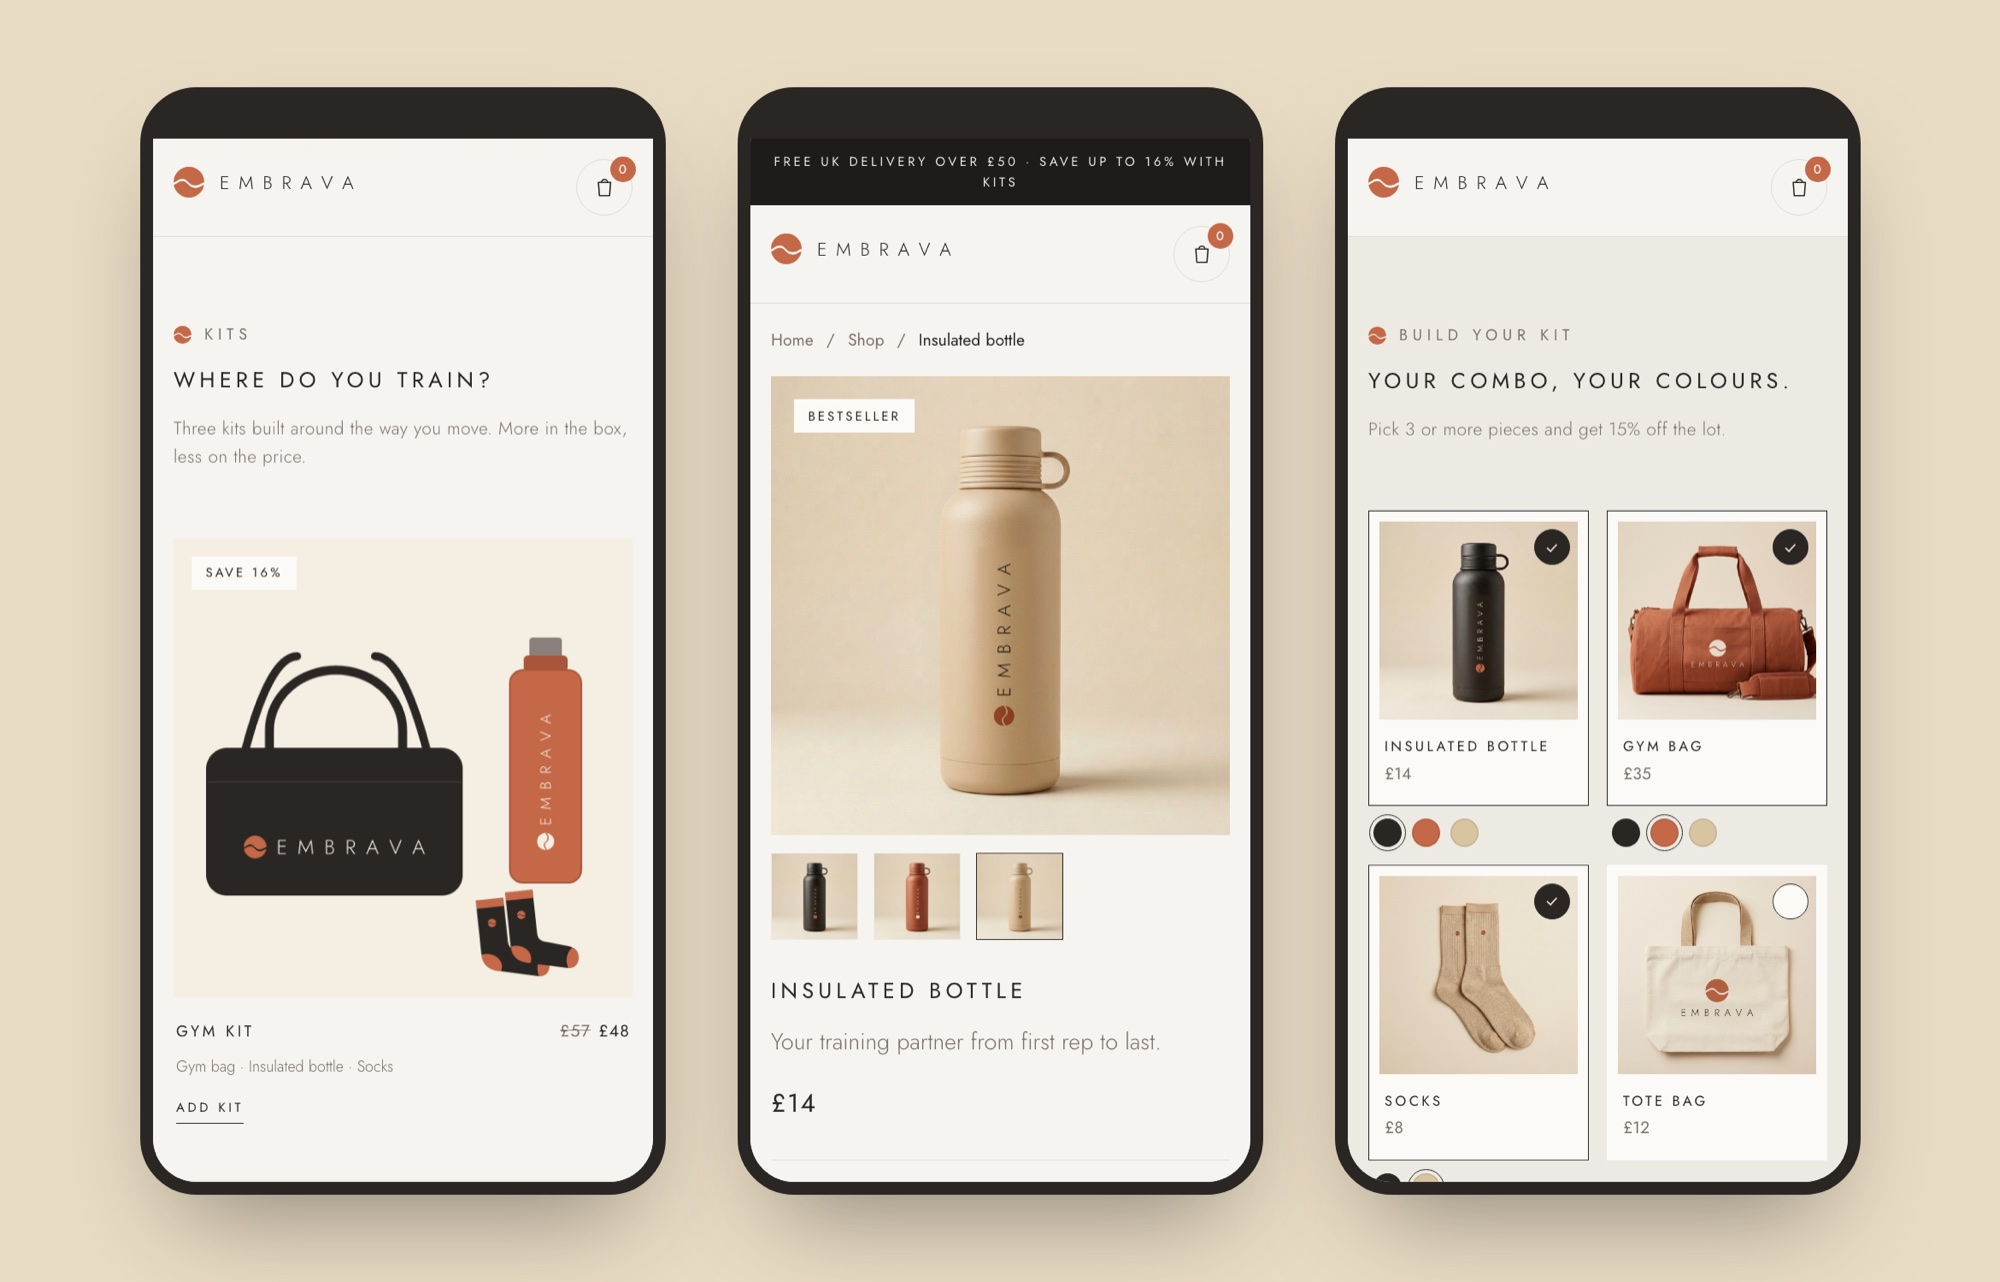
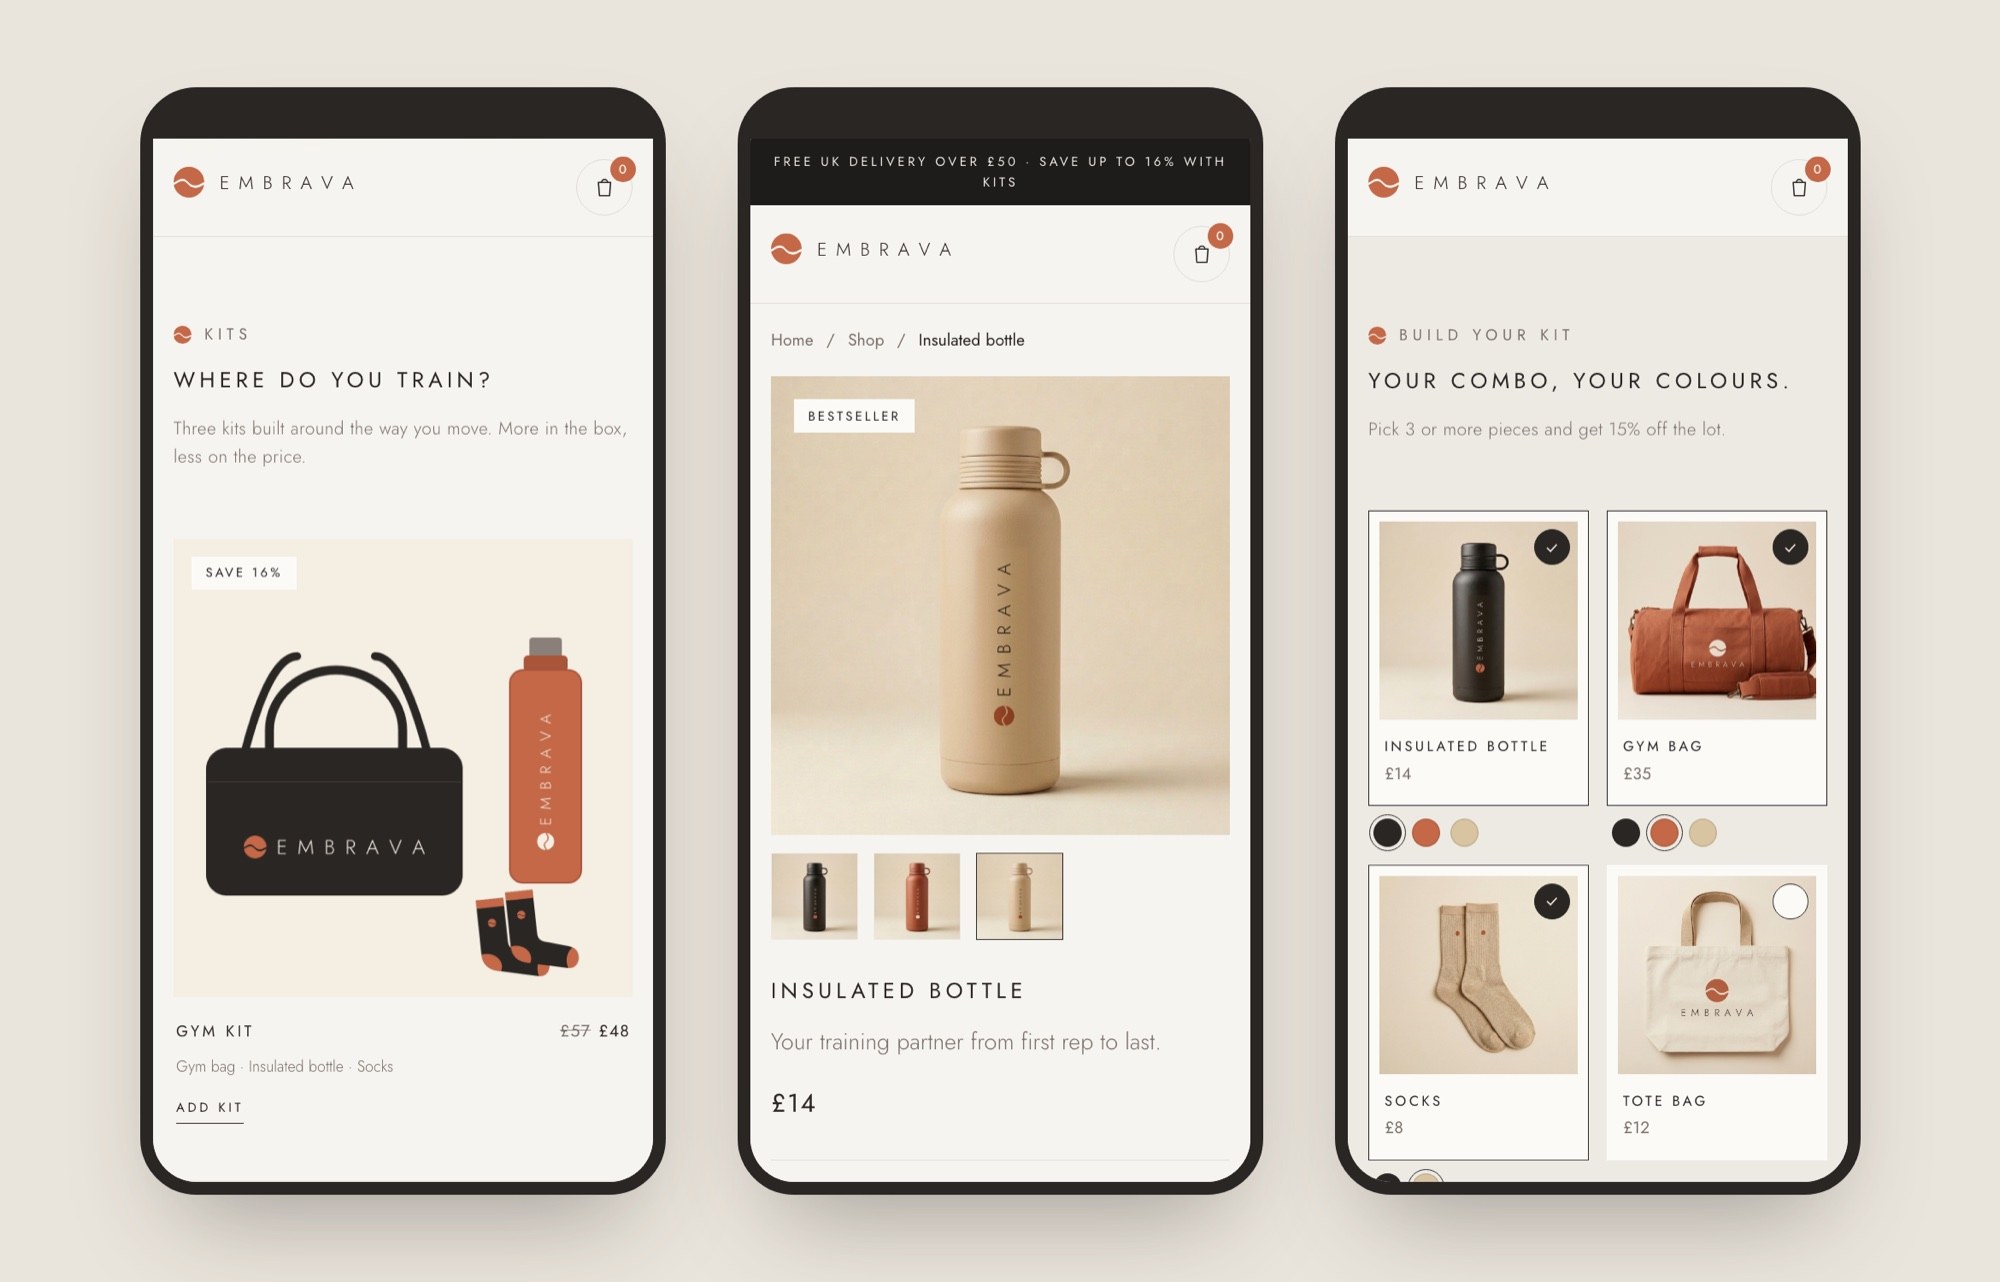
Restyle the case study to match the editorial store: spaced-caps titles, square corners, neutral phone backdrop

Changed region(s): [[0.031, 0.0312, 0.992, 1.0]]

diff --git a/case.css b/case.css
@@ -8,14 +8,14 @@
 
 /* Intro */
 .cs-intro { padding: 88px 0 40px; }
-.cs-intro h1 { font-size: clamp(44px, 7vw, 92px); margin-bottom: 28px; }
-.cs-intro__lead { font-size: clamp(18px, 2vw, 22px); color: var(--muted); max-width: 40em; margin: 0 0 48px; }
+.cs-intro h1 { font-size: clamp(26px, 3.4vw, 44px); font-weight: 400; letter-spacing: .24em; text-transform: uppercase; line-height: 1.3; margin-bottom: 28px; }
+.cs-intro__lead { font-size: clamp(16px, 1.6vw, 19px); font-weight: 300; color: var(--muted); max-width: 40em; margin: 0 0 48px; }
 .cs-meta { display: grid; grid-template-columns: repeat(5, 1fr); gap: 24px; margin: 0 0 64px; padding-top: 28px; border-top: 1px solid var(--line); }
 .cs-meta dt { font-size: 12px; letter-spacing: .22em; text-transform: uppercase; color: var(--muted); margin-bottom: 6px; }
 .cs-meta dd { margin: 0; font-size: 15px; }
 
 /* Browser frame */
-.browser { margin: 0; border-radius: 16px; overflow: hidden; background: var(--dark); box-shadow: 0 50px 100px -40px rgba(0, 0, 0, .4); }
+.browser { margin: 0; border-radius: 0; overflow: hidden; background: var(--dark); box-shadow: 0 50px 100px -40px rgba(0, 0, 0, .4); }
 .browser__bar { display: flex; align-items: center; gap: 7px; padding: 12px 16px; }
 .browser__bar span { width: 11px; height: 11px; border-radius: 50%; background: #444; }
 .browser__bar span:first-child { background: var(--terracotta); }
@@ -32,7 +32,7 @@
 .cs-split__head { position: sticky; top: 104px; }
 .cs-split--tight .cs-split__head { position: static; }
 .cs-num { display: block; font-size: 14px; font-weight: 700; color: var(--muted); margin-bottom: 14px; letter-spacing: .1em; }
-.cs-split h2 { font-size: clamp(30px, 3.6vw, 44px); }
+.cs-split h2 { font-size: clamp(18px, 1.9vw, 24px); font-weight: 400; letter-spacing: .24em; text-transform: uppercase; line-height: 1.4; }
 .cs-split__body > p { font-size: 18px; margin: 0 0 24px; max-width: 38em; }
 .cs-section--dark .cs-split__body > p { color: #d0d0cc; }
 .cs-split__body > p:last-child { margin-bottom: 0; }
@@ -43,7 +43,7 @@
 
 /* Brand */
 .cs-marks { display: grid; grid-template-columns: 1.6fr 1fr 1fr; gap: 14px; margin: 36px 0 20px; }
-.cs-mark { border-radius: 16px; aspect-ratio: 1.6; display: grid; place-items: center; padding: 24px; }
+.cs-mark { border-radius: 0; aspect-ratio: 1.6; display: grid; place-items: center; padding: 24px; }
 .cs-mark--cream { background: var(--cream); aspect-ratio: auto; }
 .cs-mark--cream .logo { gap: 16px; }
 .cs-mark--cream .logo__sym { width: 48px; height: 48px; }
@@ -57,7 +57,7 @@
 
 /* Before / after */
 .cs-evolution { display: grid; grid-template-columns: 1fr 1fr; gap: 14px; margin: 8px 0 32px; }
-.cs-evolution figure { margin: 0; background: var(--cream); border-radius: 16px; padding: 40px 28px 18px; display: flex; flex-direction: column; align-items: center; gap: 28px; }
+.cs-evolution figure { margin: 0; background: var(--cream); border-radius: 0; padding: 40px 28px 18px; display: flex; flex-direction: column; align-items: center; gap: 28px; }
 .cs-evolution figcaption { align-self: stretch; font-size: 12px; letter-spacing: .22em; text-transform: uppercase; color: var(--muted); border-top: 1px solid var(--line); padding-top: 12px; }
 .cs-before img { width: 78%; height: auto; opacity: .85; }
 .cs-after { min-height: 100%; justify-content: space-between; }
@@ -67,10 +67,10 @@
 .cs-list--light li { border-top-color: rgba(244, 238, 227, .14); color: #d0d0cc; }
 .cs-list--light strong { color: var(--cream); }
 .cs-onproduct { display: grid; grid-template-columns: repeat(4, 1fr); gap: 10px; margin: 0 0 24px; }
-.cs-onproduct img { width: 100%; aspect-ratio: 1; object-fit: cover; border-radius: 12px; }
+.cs-onproduct img { width: 100%; aspect-ratio: 1; object-fit: cover; border-radius: 0; }
 .cs-palette { list-style: none; padding: 0; margin: 0 0 28px; display: grid; grid-template-columns: repeat(4, 1fr); gap: 14px; }
 .cs-palette li { font-size: 14px; display: flex; flex-direction: column; gap: 2px; }
-.cs-palette span { height: 64px; border-radius: 12px; background: var(--c); box-shadow: inset 0 0 0 1px rgba(244, 238, 227, .15); margin-bottom: 10px; }
+.cs-palette span { height: 64px; border-radius: 0; background: var(--c); box-shadow: inset 0 0 0 1px rgba(244, 238, 227, .15); margin-bottom: 10px; }
 .cs-palette code { font-family: ui-monospace, Menlo, monospace; font-size: 12px; color: #999; }
 .cs-note { font-size: 16px !important; color: #b4b4b0 !important; }
 
@@ -82,21 +82,21 @@
 .cs-dir--sand { background: var(--sand); }
 .cs-dir--chosen { border-color: var(--dark); }
 .cs-dir__tag { display: inline-grid; place-items: center; width: 36px; height: 36px; border-radius: 50%; border: 1.5px solid currentColor; font-weight: 700; margin-bottom: 44px; }
-.cs-dir h3 { font-size: 24px; margin-bottom: 10px; }
+.cs-dir h3 { font-size: 13px; font-weight: 400; letter-spacing: .22em; text-transform: uppercase; margin-bottom: 12px; }
 .cs-dir p { margin: 0; font-size: 15px; opacity: .85; }
-.cs-dir__badge { position: absolute; top: 28px; right: 22px; font-size: 12px; font-weight: 700; background: var(--dark); color: var(--on-dark); padding: 5px 10px; border-radius: 999px; }
+.cs-dir__badge { position: absolute; top: 28px; right: 22px; font-size: 10px; font-weight: 400; letter-spacing: .18em; text-transform: uppercase; background: var(--dark); color: var(--on-dark); padding: 5px 10px; border-radius: 0; }
 .cs-outcome { font-size: 20px; max-width: 36em; margin: 36px 0 0; }
 
 /* Decisions */
 .cs-decisions { display: grid; grid-template-columns: repeat(3, 1fr); gap: 18px; }
 .cs-decisions article { background: var(--surface); border-radius: var(--radius); padding: 28px 26px; }
-.cs-decisions h3 { font-size: 20px; margin-bottom: 10px; letter-spacing: -0.01em; }
+.cs-decisions h3 { font-size: 13px; font-weight: 400; margin-bottom: 12px; letter-spacing: .22em; text-transform: uppercase; }
 .cs-decisions h3::before { content: ""; display: block; width: 28px; height: 3px; background: currentColor; margin-bottom: 20px; }
 .cs-decisions p { margin: 0; font-size: 15px; color: var(--muted); }
 
 /* Full page scroll */
 .cs-scroll {
-  height: 640px; overflow: hidden; border-radius: 16px; background: var(--surface);
+  height: 640px; overflow: hidden; border-radius: 0; background: var(--surface);
   box-shadow: 0 40px 80px -40px rgba(0, 0, 0, .35); border: 8px solid var(--dark);
 }
 .cs-scroll img { width: 100%; transform: translateY(0); transition: transform 7s ease-in-out; }
@@ -108,10 +108,10 @@
 /* Tech */
 .cs-tech { display: grid; grid-template-columns: repeat(2, 1fr); gap: 1px; background: #333; border-radius: var(--radius); overflow: hidden; }
 .cs-tech div { background: var(--dark); padding: 28px 26px; }
-.cs-tech h3 { font-size: 18px; margin-bottom: 8px; color: var(--on-dark); }
+.cs-tech h3 { font-size: 13px; font-weight: 400; letter-spacing: .22em; text-transform: uppercase; margin-bottom: 10px; color: var(--on-dark); }
 .cs-tech p { margin: 0; font-size: 15px; color: #b4b4b0; }
 
-.cs-disclaimer { font-size: 14px !important; color: var(--muted); background: var(--surface-2); border-radius: 12px; padding: 16px 18px; margin: 8px 0 28px !important; }
+.cs-disclaimer { font-size: 14px !important; color: var(--muted); background: var(--surface-2); border-radius: 0; padding: 16px 18px; margin: 8px 0 28px !important; }
 
 .cs-footer { padding: 56px 0; }
 .cs-footer__inner { display: flex; justify-content: space-between; align-items: center; gap: 24px; flex-wrap: wrap; }

diff --git a/case-study.html b/case-study.html
@@ -150,7 +150,7 @@
           <span class="cs-dir__badge">Merged into the homepage</span>
         </article>
       </div>
-      <p class="cs-outcome">The final design combines <strong>B</strong> and <strong>C</strong>: a calm, colour-first catalogue, with kits leading the homepage to lift the average order. I then refined it into a quieter, editorial finish: spaced capitals for every title, square corners, light catalogue cards and a neutral interface that leaves the colour to the products.</p>
+      <p class="cs-outcome">The final design combines <strong>B</strong> and <strong>C</strong>: a calm, colour-first catalogue, with kits leading the homepage to lift the average order. I then refined it into a quieter, light editorial finish: spaced capitals for every title, square corners, light catalogue cards and a neutral interface that leaves the colour to the products.</p>
     </div>
   </section>
 
